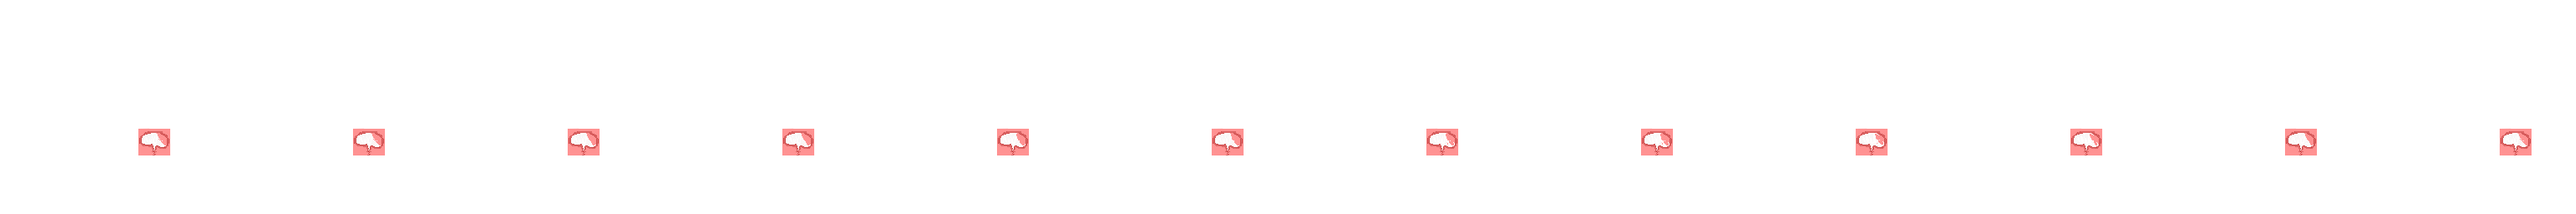
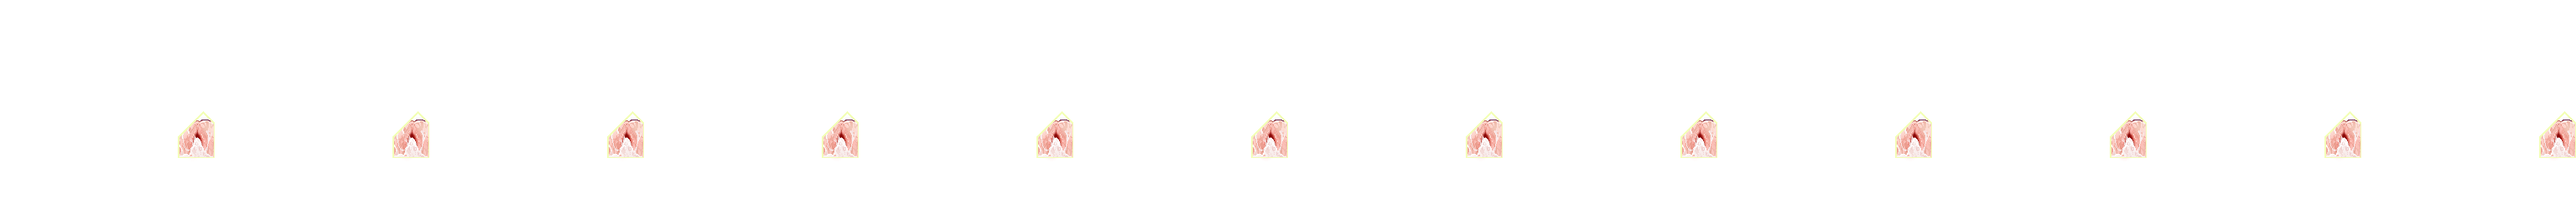
Afro fix, breast layering fix, cum internal view fix and cum internal view update for Hikari Female

diff --git a/game/04-Variables/canvasmodel-main.js b/game/04-Variables/canvasmodel-main.js
@@ -773,7 +773,8 @@ Renderer.CanvasModels["main"] = {
 		}
 
 		if (["fro", "afro pouf", "afro puffs"].includes(options.hair_sides_type) && ["fro"].includes(options.hair_fringe_type)) {
-			options.fringe_mask_src = "img/hair/fringe/" + options.hair_fringe_type + "/mask.png";
+			// options.fringe_mask_src = "img/hair/fringe/" + options.hair_fringe_type + "/mask.png";
+			options.fringe_mask_src = null;
 		} else {
 			options.fringe_mask_src = null;
 		}
@@ -961,7 +962,7 @@ Renderer.CanvasModels["main"] = {
 			filters: ["breasts"],
 			// z: ZIndices.breasts,
 			zfn(options) {
-				if (V.exposed >= 1 || (V.worn.over_upper.type.includes("naked") && V.worn.upper.type.includes("naked") && V.worn.under_upper.type.includes("naked"))) return ZIndices.breasts + 80;
+				if ((V.worn.over_upper.type.includes("naked") && V.worn.upper.type.includes("naked") && V.worn.under_upper.type.includes("naked"))) return ZIndices.breasts + 80;
 				return ZIndices.breasts;
 			},
 			animation: "idle"
@@ -2661,7 +2662,7 @@ Renderer.CanvasModels["main"] = {
 			showfn(options) {
 				return !!options.drip_vaginal;
 			},
-			z: ZIndices.tears,
+			z: ZIndices.tears + 120,
 			animationfn(options) {
 				return "VaginalCumDrip" + options.drip_vaginal;
 			}
@@ -2673,7 +2674,7 @@ Renderer.CanvasModels["main"] = {
 			showfn(options) {
 				return !!options.drip_anal;
 			},
-			z: ZIndices.tears,
+			z: ZIndices.tears + 120,
 			animationfn(options) {
 				return "AnalCumDrip" + options.drip_anal;
 			}
